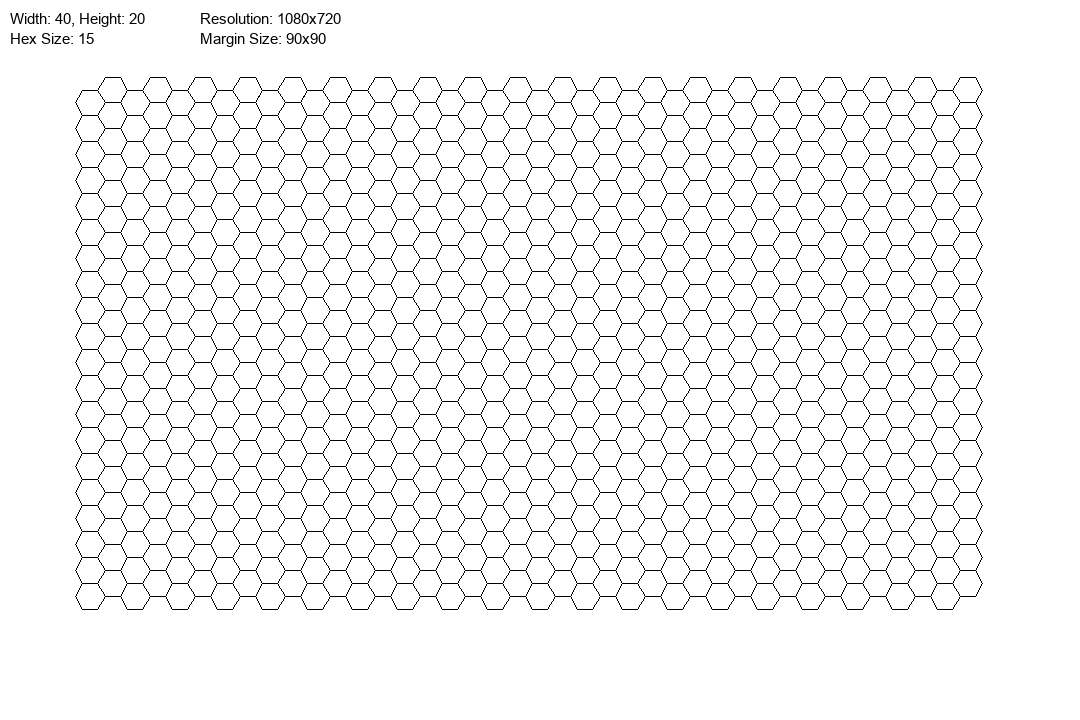
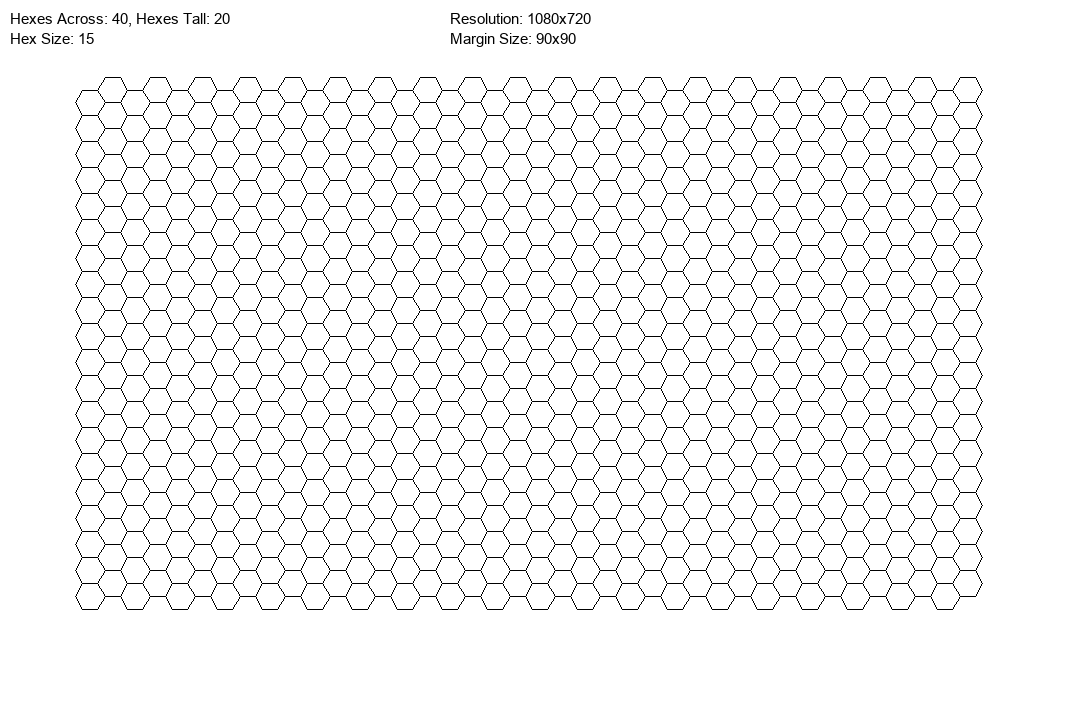
Clearer Written Info on Image

Changed region(s): [[0.0, 0.0, 0.3056, 0.0611], [0.3972, 0.0, 0.55, 0.0611]]

diff --git a/src/GridPainter.py b/src/GridPainter.py
@@ -54,7 +54,7 @@ class GridPainter:
     
     def append_map_dimensions(self, drawContext):
         drawContext.text((10,10), 
-            f'Width: {self.max_x}, Height: {self.max_y}',
+            f'Hexes Across: {self.max_x}, Hexes Tall: {self.max_y}',
             fill=(0,0,0),
             font=ImageFont.truetype('arial.ttf', 15)
             )
@@ -64,12 +64,12 @@ class GridPainter:
             font=ImageFont.truetype('arial.ttf', 15)
             )
 
-        drawContext.text((200,10), 
+        drawContext.text((450,10), 
             f'Resolution: {"x".join(map(lambda x: str(x), self.resolution))}',
             fill=(0,0,0),
             font=ImageFont.truetype('arial.ttf', 15)
             )
-        drawContext.text((200,30), 
+        drawContext.text((450,30), 
             f'Margin Size: {"x".join(map(lambda x: str(x), self.margin))}',
             fill=(0,0,0),
             font=ImageFont.truetype('arial.ttf', 15)
